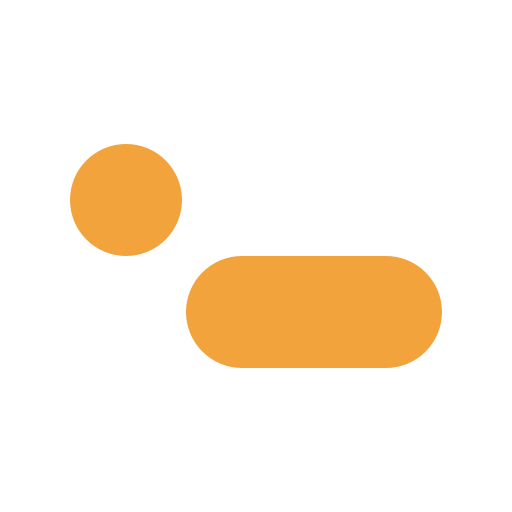
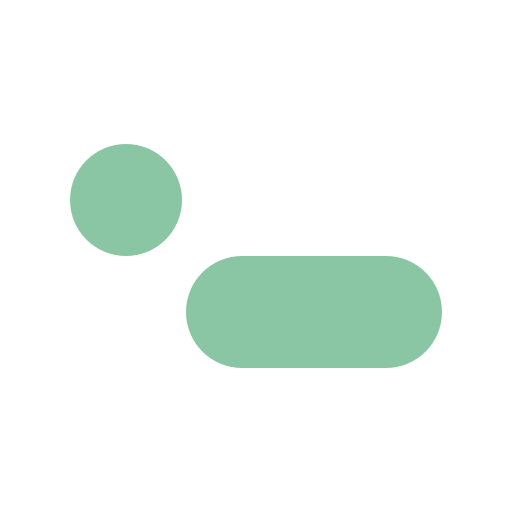
style: adopt Forest palette across light and dark themes

Changed region(s): [[0.3438, 0.5, 0.875, 0.7188], [0.125, 0.2812, 0.375, 0.5]]

diff --git a/frontend/src/app.css b/frontend/src/app.css
@@ -4,45 +4,47 @@
 :root {
   color-scheme: dark;
 
-  --bg-base: #17140f;
-  --bg-surface: #1f1b14;
-  --bg-inset: #272218;
+  /* Warm charcoal keeps the listening space quiet; Forest carries the signal. */
+  --bg-base: #191917;
+  --bg-surface: #22221f;
+  --bg-inset: #2b2b26;
 
-  --border: #37312a;
-  --border-subtle: #463e33;
+  --border: #3c3c35;
+  --border-subtle: #505047;
   /* Edge of a card/panel surface. Separate from `--border` so flat cards stay
      legible in light mode without strengthening inputs, navbar or footer. */
-  --border-card: #35302a;
+  --border-card: #3d3d35;
   /* Form-control edges need 3:1 against the surface they sit on (WCAG 1.4.11),
      so controls get a stronger rule than decorative hairlines. */
-  --border-control: #7d7365;
+  --border-control: #7d7d70;
+  --border-control-hover: #a2a08d;
 
-  --text-primary: #f2ede3;
-  --text-secondary: #cdc4b4;
-  --text-muted: #aea496;
-  --text-label: #bfb6a5;
+  --text-primary: #f2f0e9;
+  --text-secondary: #ccc9bd;
+  --text-muted: #aaa797;
+  --text-label: #bdb9a8;
 
-  /* Signal amber. One accent for the whole product: interactive surfaces, the
-     playhead, the active lesson, focus. Status colours below stay semantic —
-     green means correct, never "brand". */
-  --accent: #f2a33c;
-  --accent-cta: #e8952f;
-  --accent-cta-h: #f2a33c;
-  --danger: #e0705c;
-  /* Filled accent surfaces carry a dark-on-amber label; white on #e8952f only
-     reaches ~2.2:1. */
-  --on-accent: #211603;
+  /* Forest shades in dark and light modes share the interactive roles:
+     buttons, links, the playhead, the active lesson and focus. Feedback uses
+     separate semantic tokens, with text and icons identifying each result. */
+  --accent: #8ac6a3;
+  --accent-cta: #8ac6a3;
+  --accent-cta-h: #9cceaf;
+  --danger: var(--status-bad);
+  /* Soft Forest fills carry dark ink; the light theme uses deep Forest with
+     a light label so both themes retain readable primary actions. */
+  --on-accent: #272113;
 
-  --result-good-bg: #14251a;
-  --result-bad-bg: #2a1410;
+  --result-good-bg: #202f28;
+  --result-bad-bg: #352622;
 
   /* Semantic status roles. The result diff, verified/accuracy states and inline
      banners all read from these; components must not hard-code status hexes.
      The light theme re-tunes them for contrast on paper. */
-  --status-good: #63c08d;
-  --status-ok: #d9a216;
-  --status-bad: #e0705c;
-  --status-extra: #8fb0e8;
+  --status-good: #81bea3;
+  --status-ok: #d8bc70;
+  --status-bad: #eb9a8b;
+  --status-extra: #9bbad3;
   /* Matching washes for pills, banners and the score hero. */
   --status-good-tint: color-mix(in srgb, var(--status-good) 15%, transparent);
   --status-ok-tint: color-mix(in srgb, var(--status-ok) 15%, transparent);
@@ -69,7 +71,7 @@
   --shadow-menu: 0 2px 10px rgba(0, 0, 0, 0.45);
   --shadow-overlay: 0 12px 32px rgba(0, 0, 0, 0.5);
 
-  --focus-ring: 0 0 0 2px color-mix(in srgb, var(--accent) 70%, transparent);
+  --focus-ring: 0 0 0 2px color-mix(in srgb, var(--accent) 80%, transparent);
 
   /* 4px rhythm. */
   --space-1: 0.25rem;
@@ -138,59 +140,59 @@
 @media (prefers-color-scheme: light) {
   :root:not([data-theme='dark']) {
     color-scheme: light;
-    --bg-base: #f5f1e8;
-    --bg-surface: #fbf9f3;
-    --bg-inset: #ede8dc;
-    --border: #dcd5c6;
-    --border-subtle: #cfc7b5;
-    --border-card: #d8d1c1;
-    --border-control: #867c66;
-    --text-primary: #201d18;
-    --text-secondary: #4c463c;
-    --text-muted: #605849;
-    --text-label: #57503f;
-    --accent: #a94c08;
-    --accent-cta: #a24a08;
-    --accent-cta-h: #8f4107;
-    --danger: #b42318;
-    --on-accent: #fff8ef;
-    --status-good: #1e7a46;
-    --status-ok: #8a5a00;
-    --status-bad: #b42318;
-    --status-extra: #3f5e9c;
-    --result-good-bg: #edf3e7;
-    --result-bad-bg: #f8eae3;
-    --shadow-menu: 0 2px 10px rgba(32, 25, 14, 0.12);
-    --shadow-overlay: 0 12px 32px rgba(32, 25, 14, 0.18);
+    --bg-base: #f3f2ed;
+    --bg-surface: #fcfbf7;
+    --bg-inset: #e8e7df;
+    --border: #d6d5ca;
+    --border-subtle: #c4c2b5;
+    --border-card: #d2d1c5;
+    --border-control: #807d70;
+    --border-control-hover: #686658;
+    --text-primary: #252620;
+    --text-secondary: #4f5147;
+    --text-muted: #65675b;
+    --text-label: #5c5e50;
+    --accent: #2f6b50;
+    --accent-cta: #2f6b50;
+    --accent-cta-h: #2e634a;
+    --on-accent: #fffaf0;
+    --status-good: #2a624e;
+    --status-ok: #6d5412;
+    --status-bad: #943a30;
+    --status-extra: #365b7b;
+    --result-good-bg: #e6eee7;
+    --result-bad-bg: #f4e7e2;
+    --shadow-menu: 0 2px 10px rgba(37, 38, 32, 0.12);
+    --shadow-overlay: 0 12px 32px rgba(37, 38, 32, 0.18);
   }
 }
 
 [data-theme='light'] {
   color-scheme: light;
-  --bg-base: #f5f1e8;
-  --bg-surface: #fbf9f3;
-  --bg-inset: #ede8dc;
-  --border: #dcd5c6;
-  --border-subtle: #cfc7b5;
-  --border-card: #d8d1c1;
-  --border-control: #867c66;
-  --text-primary: #201d18;
-  --text-secondary: #4c463c;
-  --text-muted: #605849;
-  --text-label: #57503f;
-  --accent: #a94c08;
-  --accent-cta: #a24a08;
-  --accent-cta-h: #8f4107;
-  --danger: #b42318;
-  --on-accent: #fff8ef;
-  --status-good: #1e7a46;
-  --status-ok: #8a5a00;
-  --status-bad: #b42318;
-  --status-extra: #3f5e9c;
-  --result-good-bg: #edf3e7;
-  --result-bad-bg: #f8eae3;
-  --shadow-menu: 0 2px 10px rgba(32, 25, 14, 0.12);
-  --shadow-overlay: 0 12px 32px rgba(32, 25, 14, 0.18);
+  --bg-base: #f3f2ed;
+  --bg-surface: #fcfbf7;
+  --bg-inset: #e8e7df;
+  --border: #d6d5ca;
+  --border-subtle: #c4c2b5;
+  --border-card: #d2d1c5;
+  --border-control: #807d70;
+  --border-control-hover: #686658;
+  --text-primary: #252620;
+  --text-secondary: #4f5147;
+  --text-muted: #65675b;
+  --text-label: #5c5e50;
+  --accent: #2f6b50;
+  --accent-cta: #2f6b50;
+  --accent-cta-h: #2e634a;
+  --on-accent: #fffaf0;
+  --status-good: #2a624e;
+  --status-ok: #6d5412;
+  --status-bad: #943a30;
+  --status-extra: #365b7b;
+  --result-good-bg: #e6eee7;
+  --result-bad-bg: #f4e7e2;
+  --shadow-menu: 0 2px 10px rgba(37, 38, 32, 0.12);
+  --shadow-overlay: 0 12px 32px rgba(37, 38, 32, 0.18);
 }
 
 /* No `[data-theme='dark']` block is needed: the `:root` values above are the dark
@@ -565,7 +567,7 @@ body {
 }
 
 .btn-ghost:hover:not(:disabled) {
-  border-color: var(--border-subtle);
+  border-color: var(--border-control-hover);
   background-color: var(--bg-inset);
 }
 
@@ -658,7 +660,7 @@ body {
 
 .segmented-item:hover {
   color: var(--text-primary);
-  border-color: var(--border-subtle);
+  border-color: var(--border-control-hover);
 }
 
 .segmented-item[aria-pressed='true'],
@@ -699,7 +701,7 @@ body {
 .input:hover,
 .select:hover,
 .textarea:hover {
-  border-color: var(--border-subtle);
+  border-color: var(--border-control-hover);
 }
 
 .input:focus,
@@ -877,7 +879,6 @@ select.select {
 
 .diff-expected {
   font-size: var(--text-xs);
-  opacity: 0.8;
   font-weight: 400;
 }
 
@@ -1007,7 +1008,7 @@ summary:focus-visible,
   gap: 0.25rem;
 }
 
-/* Forum category label: small caps with the amber dot, on the thread list and
+/* Forum category label: small caps with the accent dot, on the thread list and
    the thread page alike. */
 .thread-cat {
   display: inline-flex;
@@ -1054,7 +1055,7 @@ summary:focus-visible,
   transition: background-color var(--transition-fast);
 }
 
-/* Whole-row links read as one target: the row floors and runs the 2px amber
+/* Whole-row links read as one target: the row floors and runs the 2px accent
    edge on hover and keyboard focus, matching the row-list's link treatment. */
 .row-link:hover,
 .row-link:focus-visible {
@@ -1155,7 +1156,7 @@ summary:focus-visible,
 
 .btn-icon:hover:not(:disabled) {
   color: var(--text-primary);
-  border-color: var(--border-subtle);
+  border-color: var(--border-control-hover);
   background-color: var(--bg-inset);
 }
 

diff --git a/frontend/src/lib/styles/layout.css b/frontend/src/lib/styles/layout.css
@@ -130,7 +130,7 @@
 }
 
 /* One control treatment for everything clickable in the top bar: a
-   secondary-ink label over an amber rule that grows from the left. The rule is
+   secondary-ink label over an accent rule that grows from the left. The rule is
    an absolutely positioned child, so it needs the control itself as its
    containing block — the sticky `.navbar` is the nearest positioned ancestor
    otherwise, which paints the rule across the whole bar. Declared once, here,

diff --git a/frontend/src/lib/components/MorsePlayer.svelte b/frontend/src/lib/components/MorsePlayer.svelte
@@ -26,7 +26,7 @@
     playLabel?: string;
     label?: string;
     showSettings?: boolean;
-    /* 'primary' keeps the play control amber; 'quiet' dresses it as a secondary
+    /* 'primary' keeps the play control accented; 'quiet' dresses it as a secondary
        action once the passage has already been played through once. */
     playTone?: 'primary' | 'quiet';
     /* Stop, skip and the clock stay hidden until playback has started, so the

diff --git a/frontend/src/routes/forum/+page.svelte b/frontend/src/routes/forum/+page.svelte
@@ -485,7 +485,7 @@
   }
 
   /* A thread row is a `.row-link`, so it inherits the shared row spec — row
-     padding and the inset + 2px amber edge on hover/focus. Rows are separated
+     padding and the inset + 2px accent edge on hover/focus. Rows are separated
      by whitespace, not rules (see `.row-list` in app.css); the list itself only
      carries the gap to the next block. */
   .thread-list {

diff --git a/frontend/AGENTS.md b/frontend/AGENTS.md
@@ -26,7 +26,7 @@ The root [AGENTS.md](../AGENTS.md) also applies. This file retains frontend impl
 
 ## Visual system
 
-- Use warm neutral surfaces, amber `--accent`/`--accent-cta`, semantic `--status-good`/`--status-ok`/`--status-bad`/`--status-extra`, flat surfaces, 2–6px `--radius-*`, and the 4px `--space-*` rhythm.
+- Use warm neutral surfaces and Forest green shades in both themes for `--accent`/`--accent-cta`, semantic `--status-good`/`--status-ok`/`--status-bad`/`--status-extra`, flat surfaces, 2–6px `--radius-*`, and the 4px `--space-*` rhythm.
 - All color literals belong in `src/app.css`. Never hard-code hex colors or arbitrary utility colors in Svelte components; read `var(--token)`.
 - Cards must stay flat without hover/lift unless the whole element is an interactive link or button.
 - Use the installed Lucide icons (`@lucide/svelte`), never emoji UI icons.
